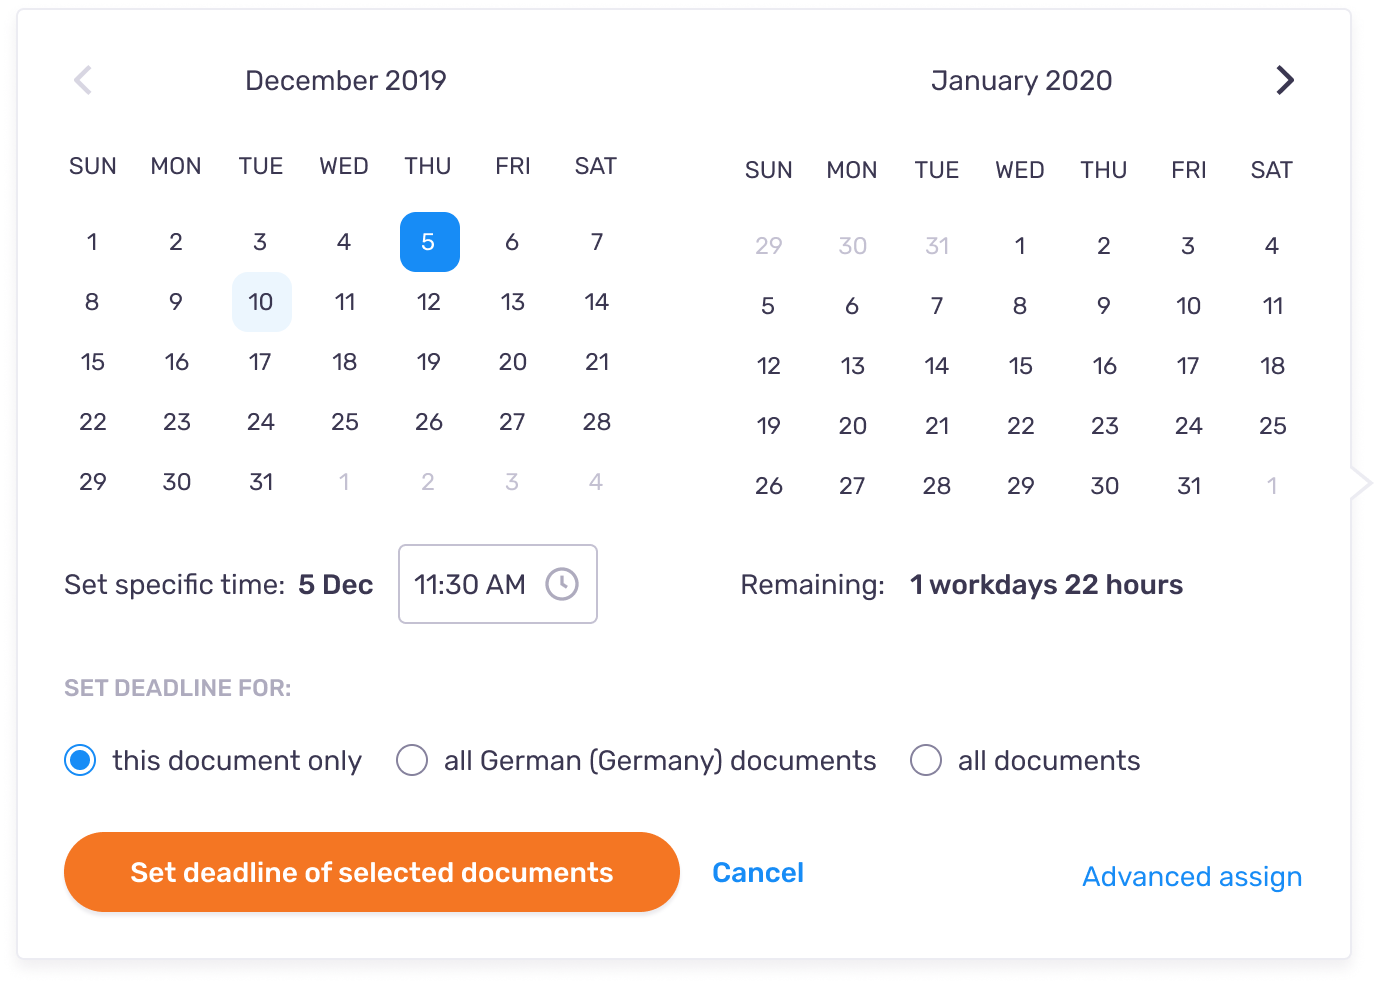
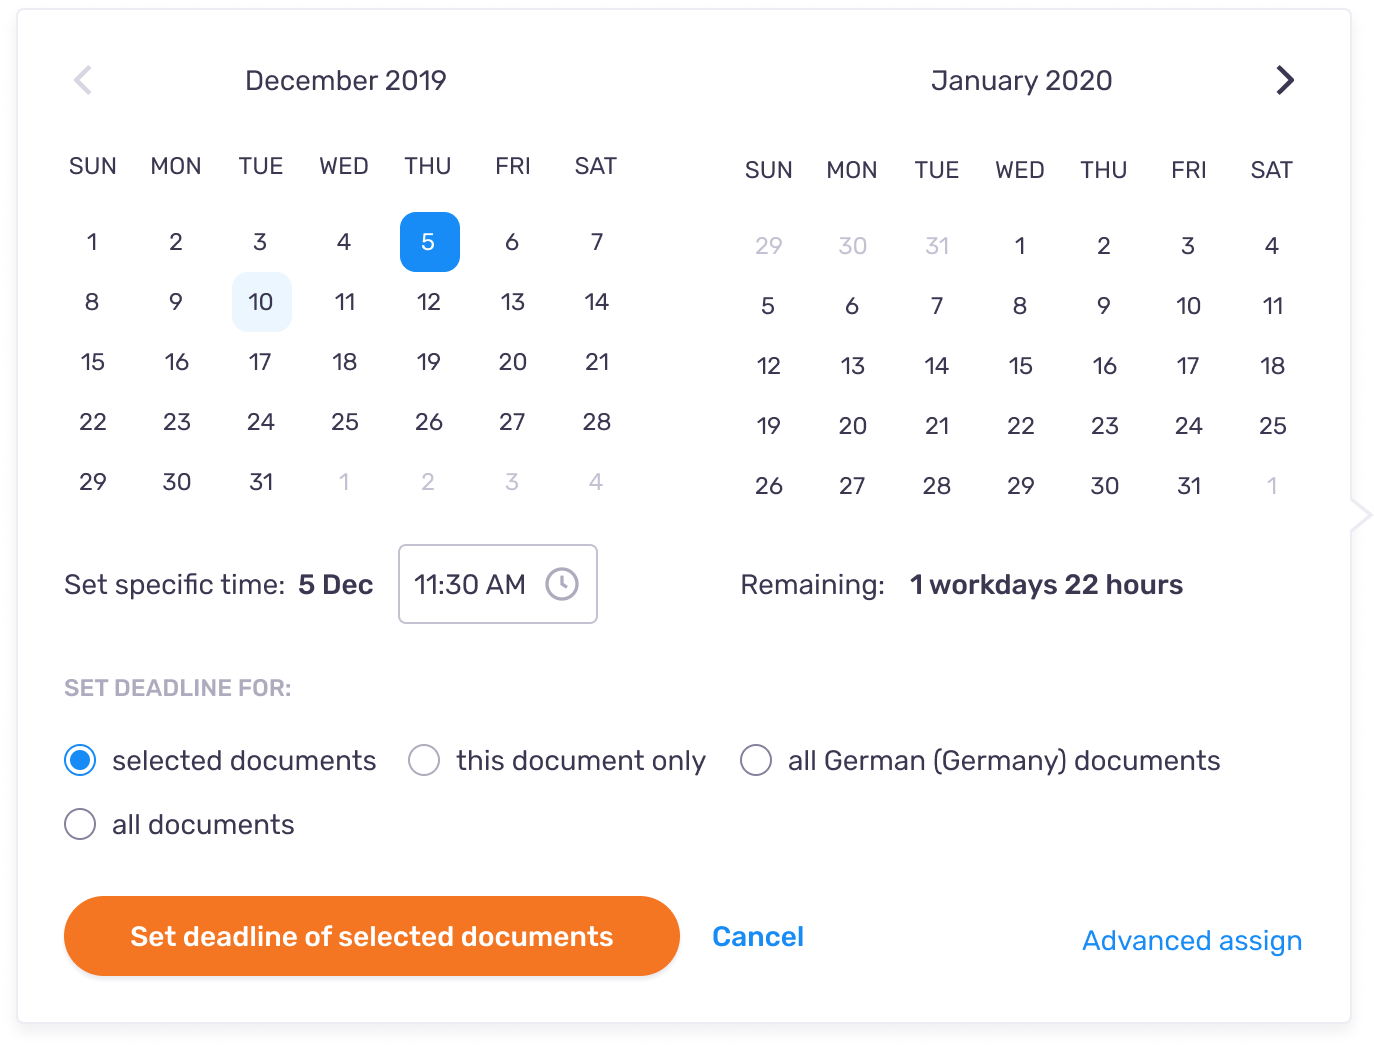
assign fix

diff --git a/prototype-document-assign/assign-test-v2.2/css/styles.css b/prototype-document-assign/assign-test-v2.2/css/styles.css
@@ -191,8 +191,8 @@ body {
     opacity: 1;
     background-image: url(../images/set-deadline-selected.png) !important;
     width: 687px;
-    height: 492px;
-    background-size: 687px 492px;
+    height: 508px;
+    background-size: 687px 508px;
 }
 
 .set-more-popout {
